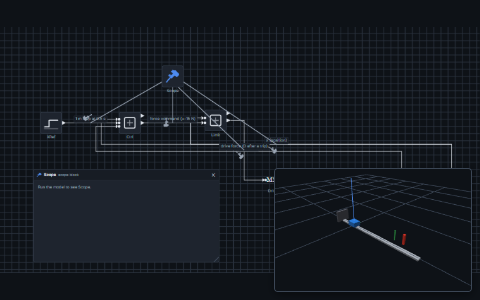
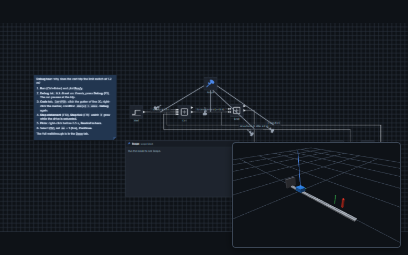
examples: debug-tour gets a sticky note with the tour steps
The canvas now renders diagram.annotations (sticky notes), so the model carries
a blue note with the six walkthrough steps and links to Pos/y, Ctrl and the
Docs walkthrough page. Docs and gallery thumbnail rebuilt.

Claude-Session: https://claude.ai/code/session_016uAxtYN5peY32W3StmNm7K

diff --git a/examples/debug-tour/models/debug-tour.docs/pages/overview.md b/examples/debug-tour/models/debug-tour.docs/pages/overview.md
@@ -2,9 +2,9 @@
 
 A small model with a **planted bug**, made to show off the debugger. A 1 kg cart on a spring and a damper is positioned by a sampled PID controller [Ctrl](block:Ctrl) whose drive force saturates at ±15 N. The reference [XRef](block:XRef) steps from 0 to 1 m at $t = 0.5$ s. Something goes wrong: the cart overshoots, hits the end-of-travel switch [Limit](block:Limit) at 1.2 m, the drive is cut and the cart falls back to 0.
 
-![The model canvas|900](assets/3dc87e00281b.png)
+![The model canvas|900](assets/9bc351f95a1a.png)
 
-The [walkthrough](page:walkthrough) finds the cause with the debugger and fixes it while the run is paused. On the way it uses:
+The [walkthrough](page:walkthrough) finds the cause with the debugger and fixes it while the run is paused. A blue sticky note on the canvas repeats the steps in short. On the way it uses:
 
 - **Break on events**: pause at the instant an `@events` condition fires (the switch);
 - **watch expressions** that are re-evaluated at every pause;
@@ -24,6 +24,6 @@ Press **Run** (Ctrl+Enter). The oscilloscope probe **Scope**, part of the model,
 
 `scenes/debug-tour.sdf` has a rail, a blue cart on the prismatic joint `slide` (bound to [Pos/y](signal:Pos/y)), a green post at the 1 m target and a red post at the 1.2 m switch. At a pause the 3D view follows the inspect time, so it shows the cart where the run stopped.
 
-![3D view at t = 1.09 s, just before the trip|500](assets/c6bc0065ff2a.png)
+![3D view at t = 1.09 s, just before the trip|500](assets/8337bcc10e56.png)
 
 Start the [walkthrough](page:walkthrough), or read about the [model and checks](page:model).

diff --git a/tools/example_docs/src/debug-tour.md b/tools/example_docs/src/debug-tour.md
@@ -20,7 +20,7 @@ A small model with a **planted bug**, made to show off the debugger. A 1 kg cart
 
 ![The model canvas|900](@fig:diagram)
 
-The [walkthrough](page:walkthrough) finds the cause with the debugger and fixes it while the run is paused. On the way it uses:
+The [walkthrough](page:walkthrough) finds the cause with the debugger and fixes it while the run is paused. A blue sticky note on the canvas repeats the steps in short. On the way it uses:
 
 - **Break on events**: pause at the instant an `@events` condition fires (the switch);
 - **watch expressions** that are re-evaluated at every pause;

diff --git a/examples/debug-tour/README.md b/examples/debug-tour/README.md
@@ -40,7 +40,7 @@ An oscilloscope probe, `Scope`, is part of the model: its window on the canvas p
 the cart position against the reference and the force command `Ctrl/F` against the
 force that reaches the drive `Limit/F`, and it follows every pause. The 3D view shows
 the cart on a rail with a green post at the 1 m target and a red one at the 1.2 m
-switch.
+switch. A blue sticky note on the canvas lists the tour steps in short.
 
 ## The tour in short
 
